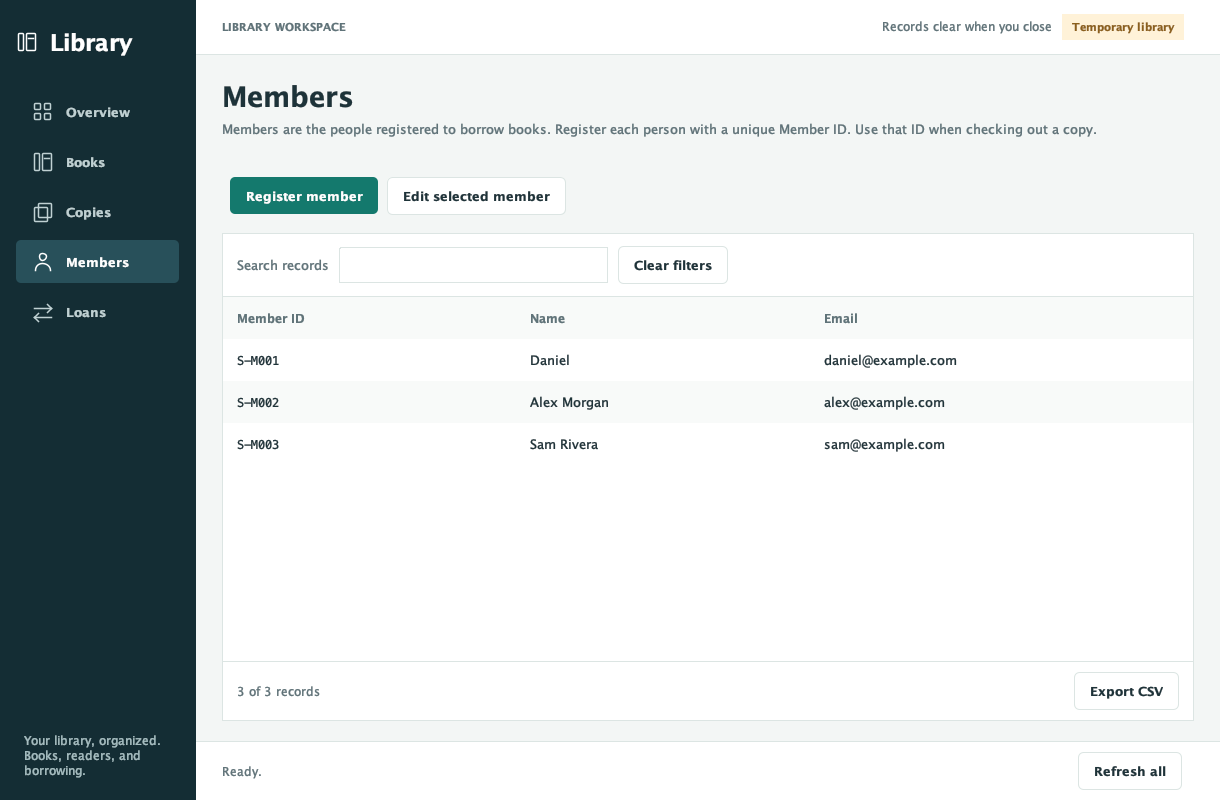
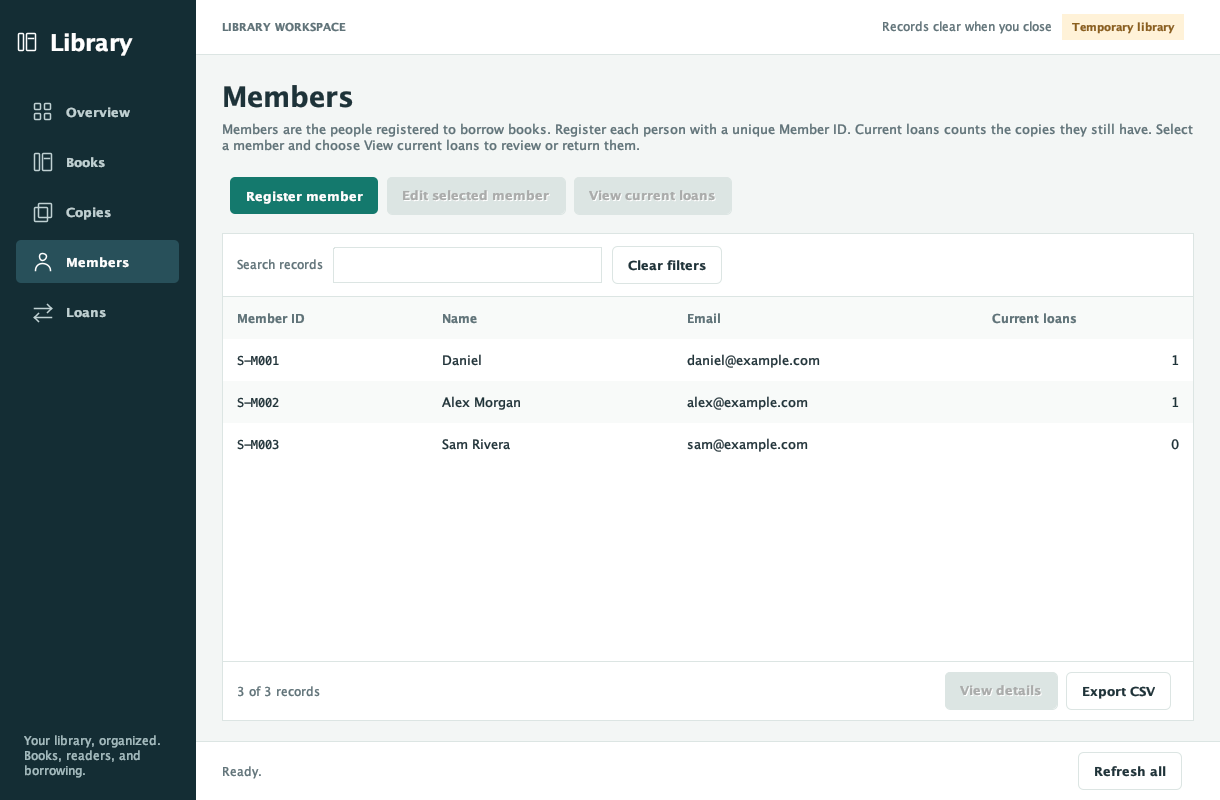
add images

diff --git a/images/README.md b/images/README.md
@@ -1,15 +1,19 @@
 # UI reference images
 
-Screenshots rendered from the actual Swing components using the canonical sample data.
+Reference images show Swing components populated with the sample dataset.
 
-- `overview.png`: summary cards and library totals.
-- `books.png`: catalog, search, and archive controls.
-- `copies.png`: physical copies and availability.
-- `members.png`: borrower records and contact editing.
-- `loans.png`: borrowing, returns, and late charges.
+| Image | Content |
+| --- | --- |
+| [overview.png](overview.png) | Summary cards and library totals |
+| [books.png](books.png) | Active titles, copy counts, borrowers, and selection actions |
+| [copies.png](copies.png) | Physical copies, availability, and checkout |
+| [members.png](members.png) | Contact records, current loan counts, and loan navigation |
+| [loans.png](loans.png) | Current borrowing, related book/member details, and returns |
+| [compact.png](compact.png) | Overview at the minimum window size |
+| [checkout.png](checkout.png) | Copy and borrower choices in the checkout form |
 
-To update these references on macOS or Windows, run Main with `--sample` in
-IntelliJ and capture screenshots of each section and the compact layout.
-They are versioned UI reference screenshots; the application renders live Swing
-components. Sample status and charge values depend on the rendering date.
-Native dialogs and operating-system window decorations are not included.
+For layout review on macOS or Windows, run Main with `--sample` in IntelliJ.
+Capture each section, the minimum window size, and the checkout form. Sample
+statuses and charges depend on the reporting date. Selection actions are disabled
+until an eligible row is selected. Native dialog buttons and operating-system
+window decorations are outside these reference images.
